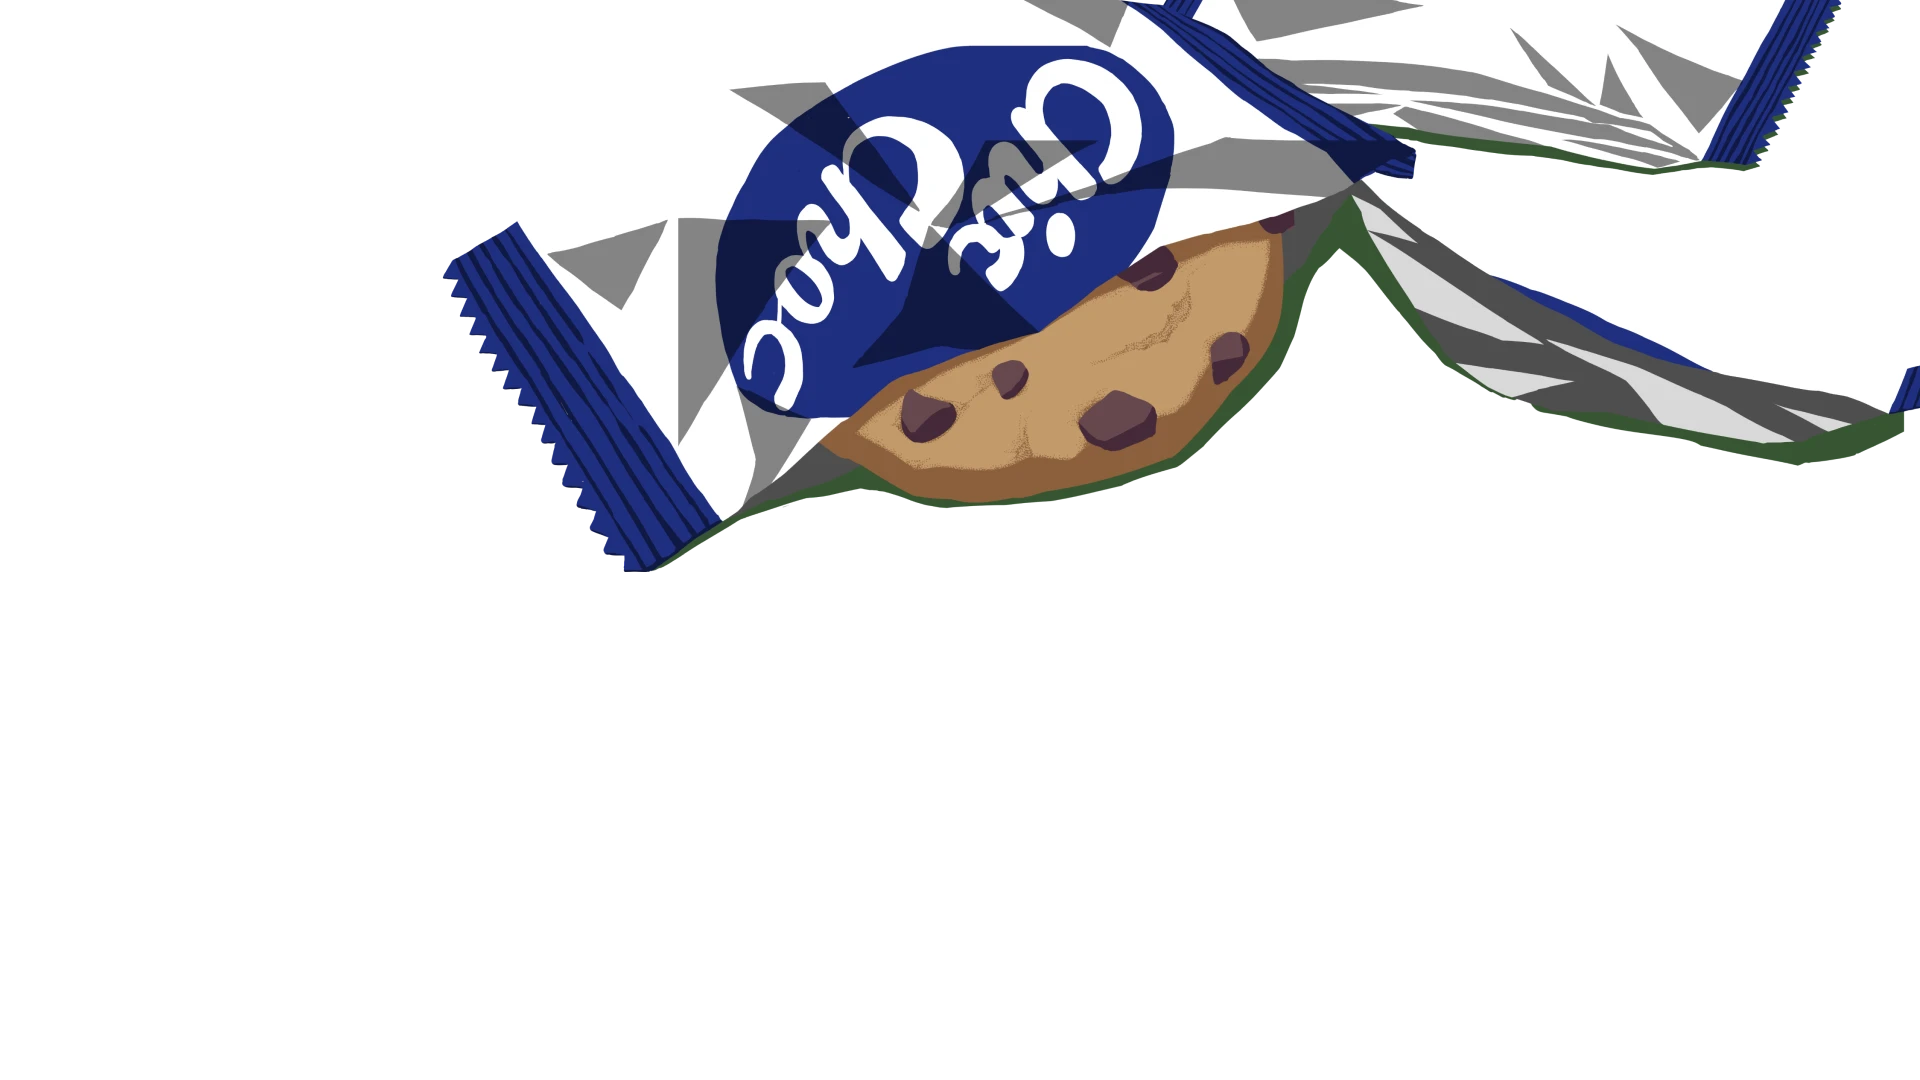
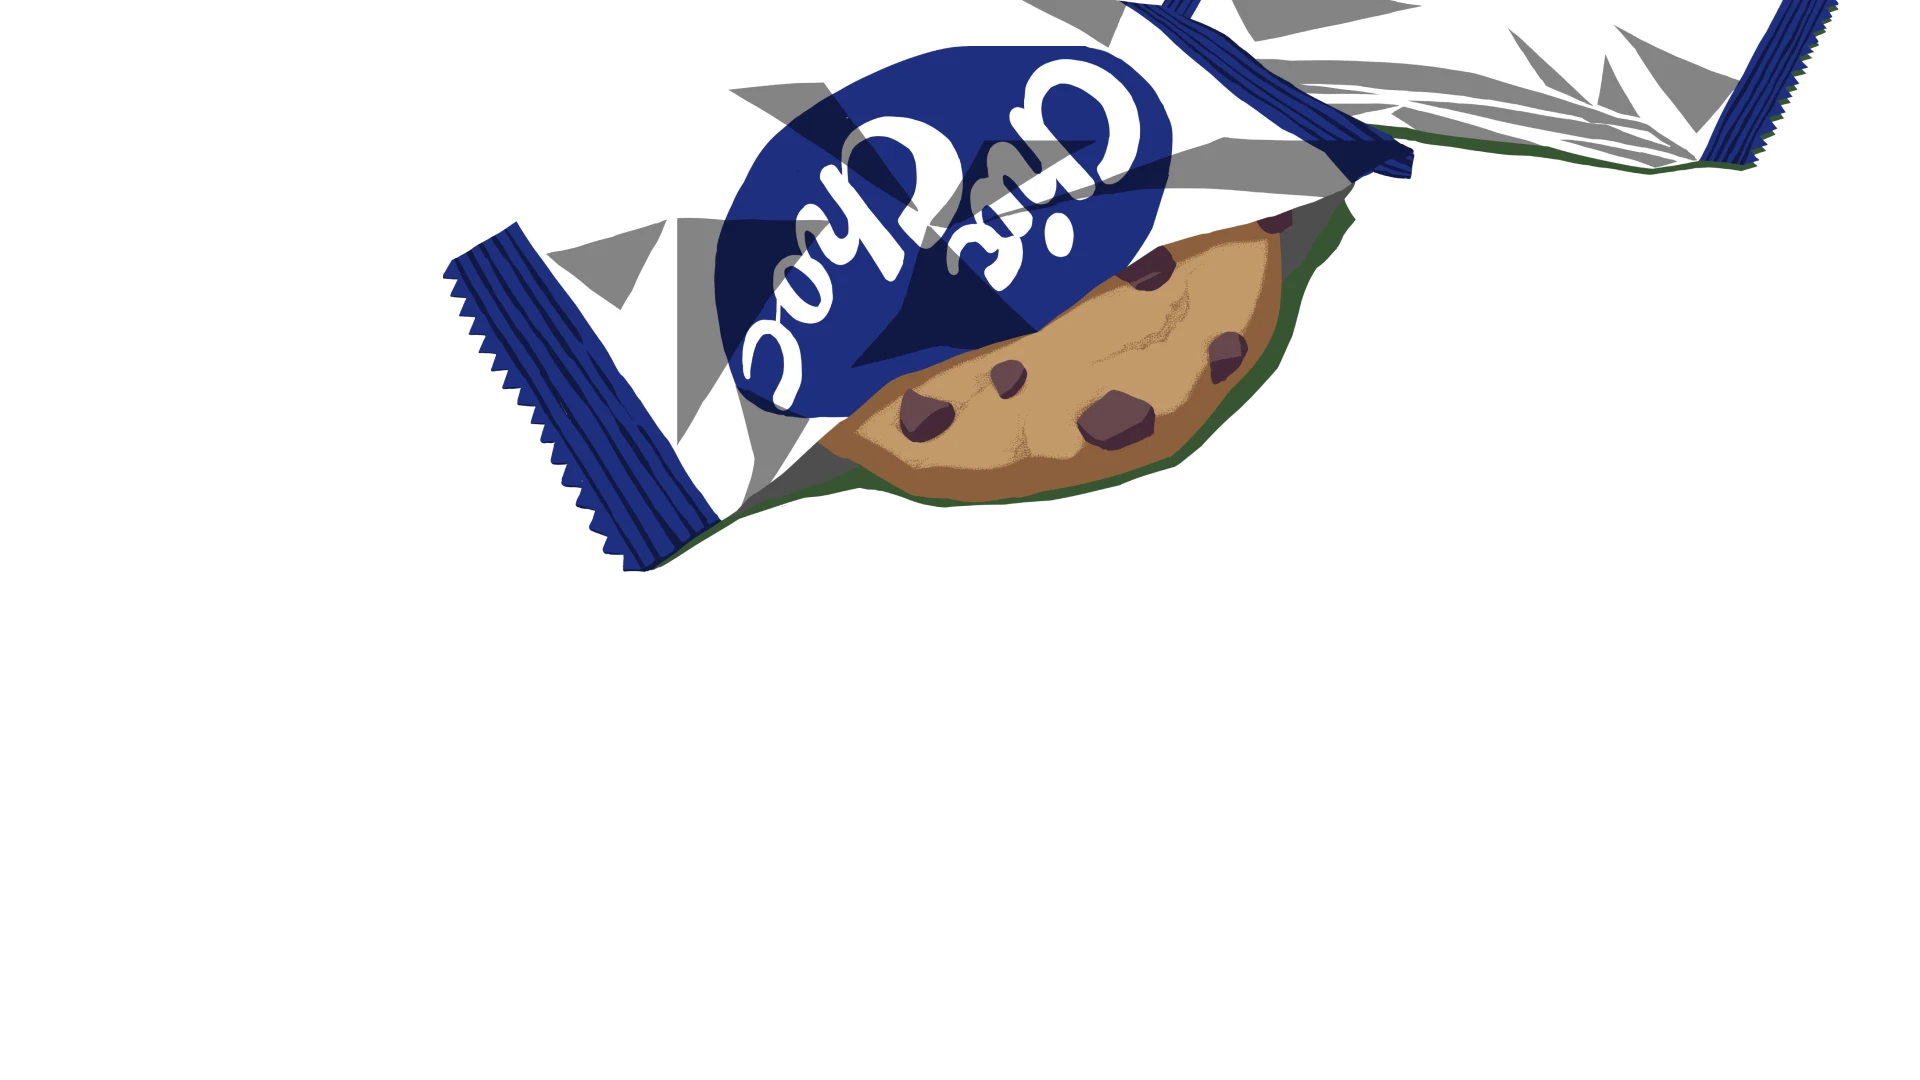
cover, ep6, 8 애니메이션 추가

diff --git a/style.css b/style.css
@@ -310,6 +310,19 @@
 .cover-author {
   font-size: min(1.25vw, 2.23vh);
 }
+#cover-move {
+  animation: transformY5 5s ease-in-out infinite;
+}
+@keyframes transformY5 {
+  0%,
+  100% {
+    transform: translateY(0);
+  }
+  50% {
+    transform: translateY(calc(min(0.625vw, 1.125vh) * (-1)));
+  }
+}
+
 /* ep1 */
 .ep1 {
   align-items: center;
@@ -517,6 +530,22 @@
 .ep6 {
   align-items: flex-end;
 }
+#ep6-back-move {
+  width: min(34.0625vw, 60.555vh);
+  top: min(8.333vw, 14.814vh);
+  left: min(69.27vw, 123.148vh);
+  transform-origin: 5% 13%;
+  animation: 4s rotateCookie ease-in-out infinite;
+}
+@keyframes rotateCookie {
+  0%,
+  100% {
+    transform: rotate(0deg);
+  }
+  50% {
+    transform: rotate(2deg);
+  }
+}
 
 /* ep7 */
 .ep7 {
@@ -537,20 +566,30 @@
 }
 
 @keyframes waterAnimation {
-  0% {
+  0%,
+  100% {
     opacity: 1;
   }
   50% {
     opacity: 0;
-  }
-  100% {
-    opacity: 1;
   }
 }
 
 /* ep8 */
 .ep8 {
   align-items: flex-start;
+}
+.ep8 .bg-cut-w {
+  animation: 6s bgBrightnessChange infinite;
+}
+@keyframes bgBrightnessChange {
+  0%,
+  100% {
+    opacity: 1;
+  }
+  50% {
+    opacity: 0.5;
+  }
 }
 
 /* 선택 결과 보고서*/

diff --git a/index.html b/index.html
@@ -75,7 +75,8 @@
               fill="none">
               <path d="M0 1080L428 0H2348V1080H0Z" fill="#00974E" />
             </svg>
-            <img src="./resource/cover_img.webp" />
+            <img id="cover-move" src="./resource/cover_2.webp" />
+            <img src="./resource/cover_1.webp" />
           </div>
           <div class="cover-text" id="dragging">
             <div class="cover-title bold">50/50</div>
@@ -462,6 +463,7 @@
         </div>
         <div class="page-content ep6 invisible">
           <div class="img-box">
+            <img id="ep6-back-move" src="./resource/ep6_static_4.webp" />
             <img id="ep6-back-cookie" src="./resource/ep6_static_3.webp" />
             <img id="ep6-thread-back" src="./resource/ep6_static_2.webp" />
             <img class="ep6-click" src="./resource/ep6_click_5.webp" />
